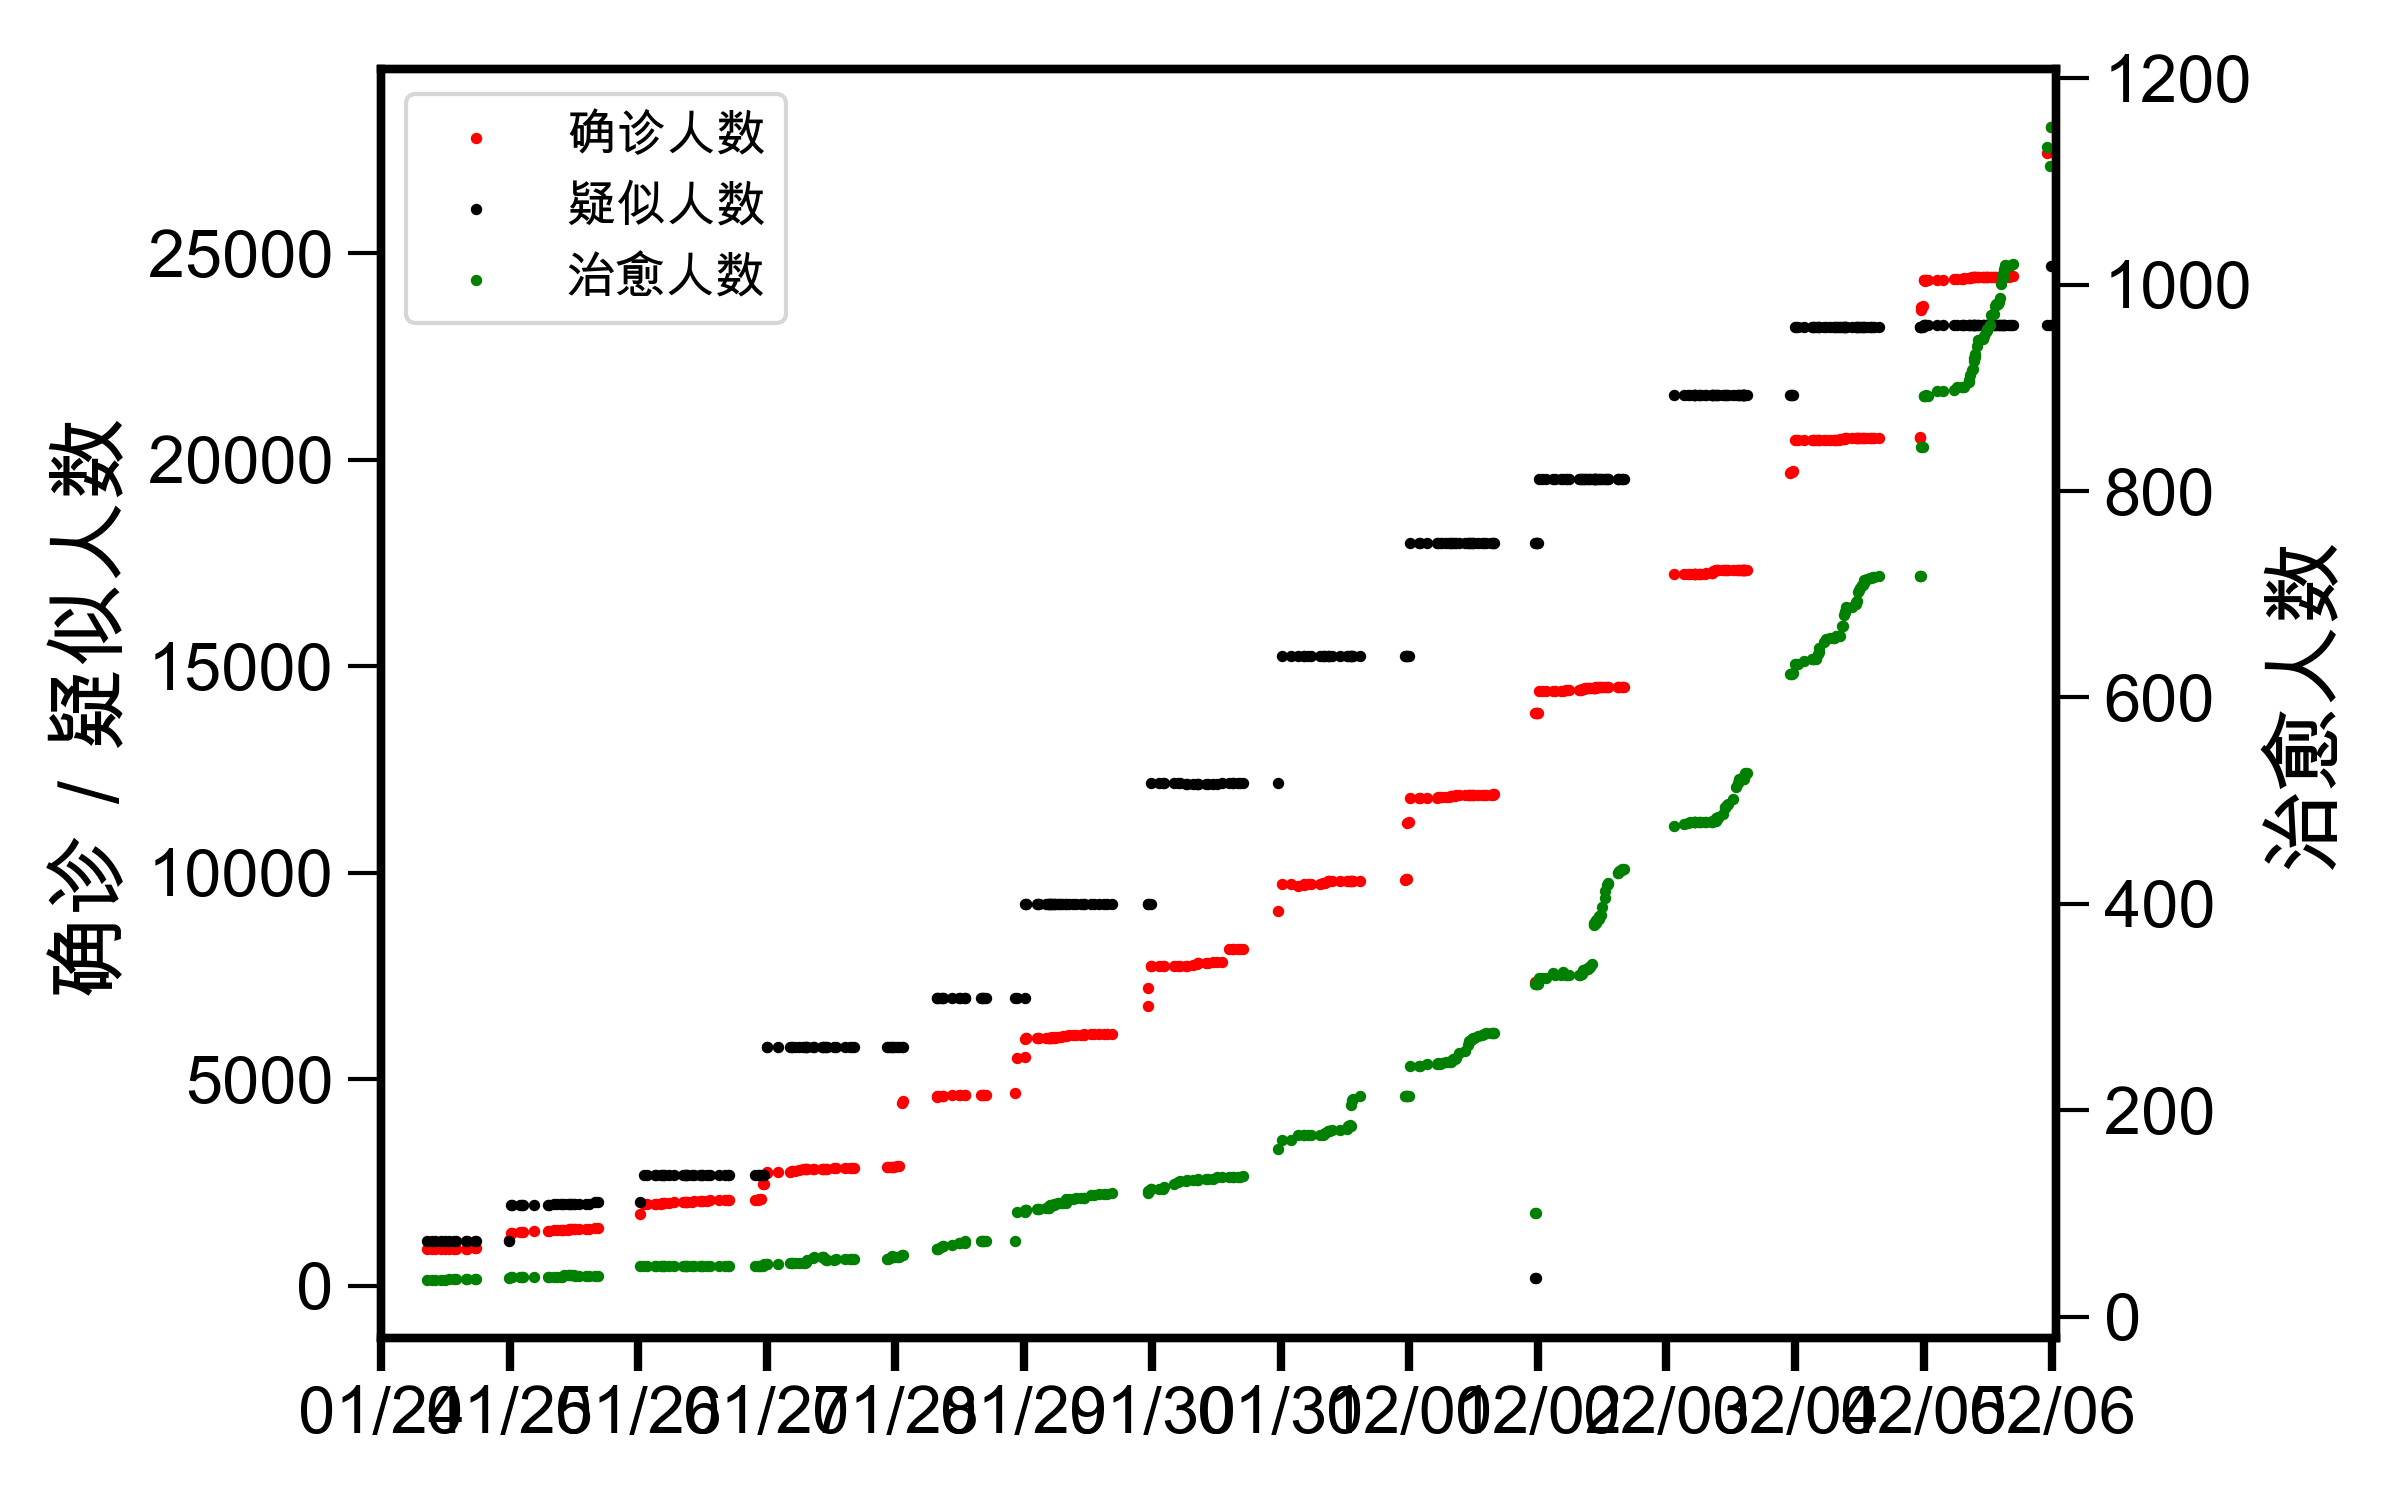
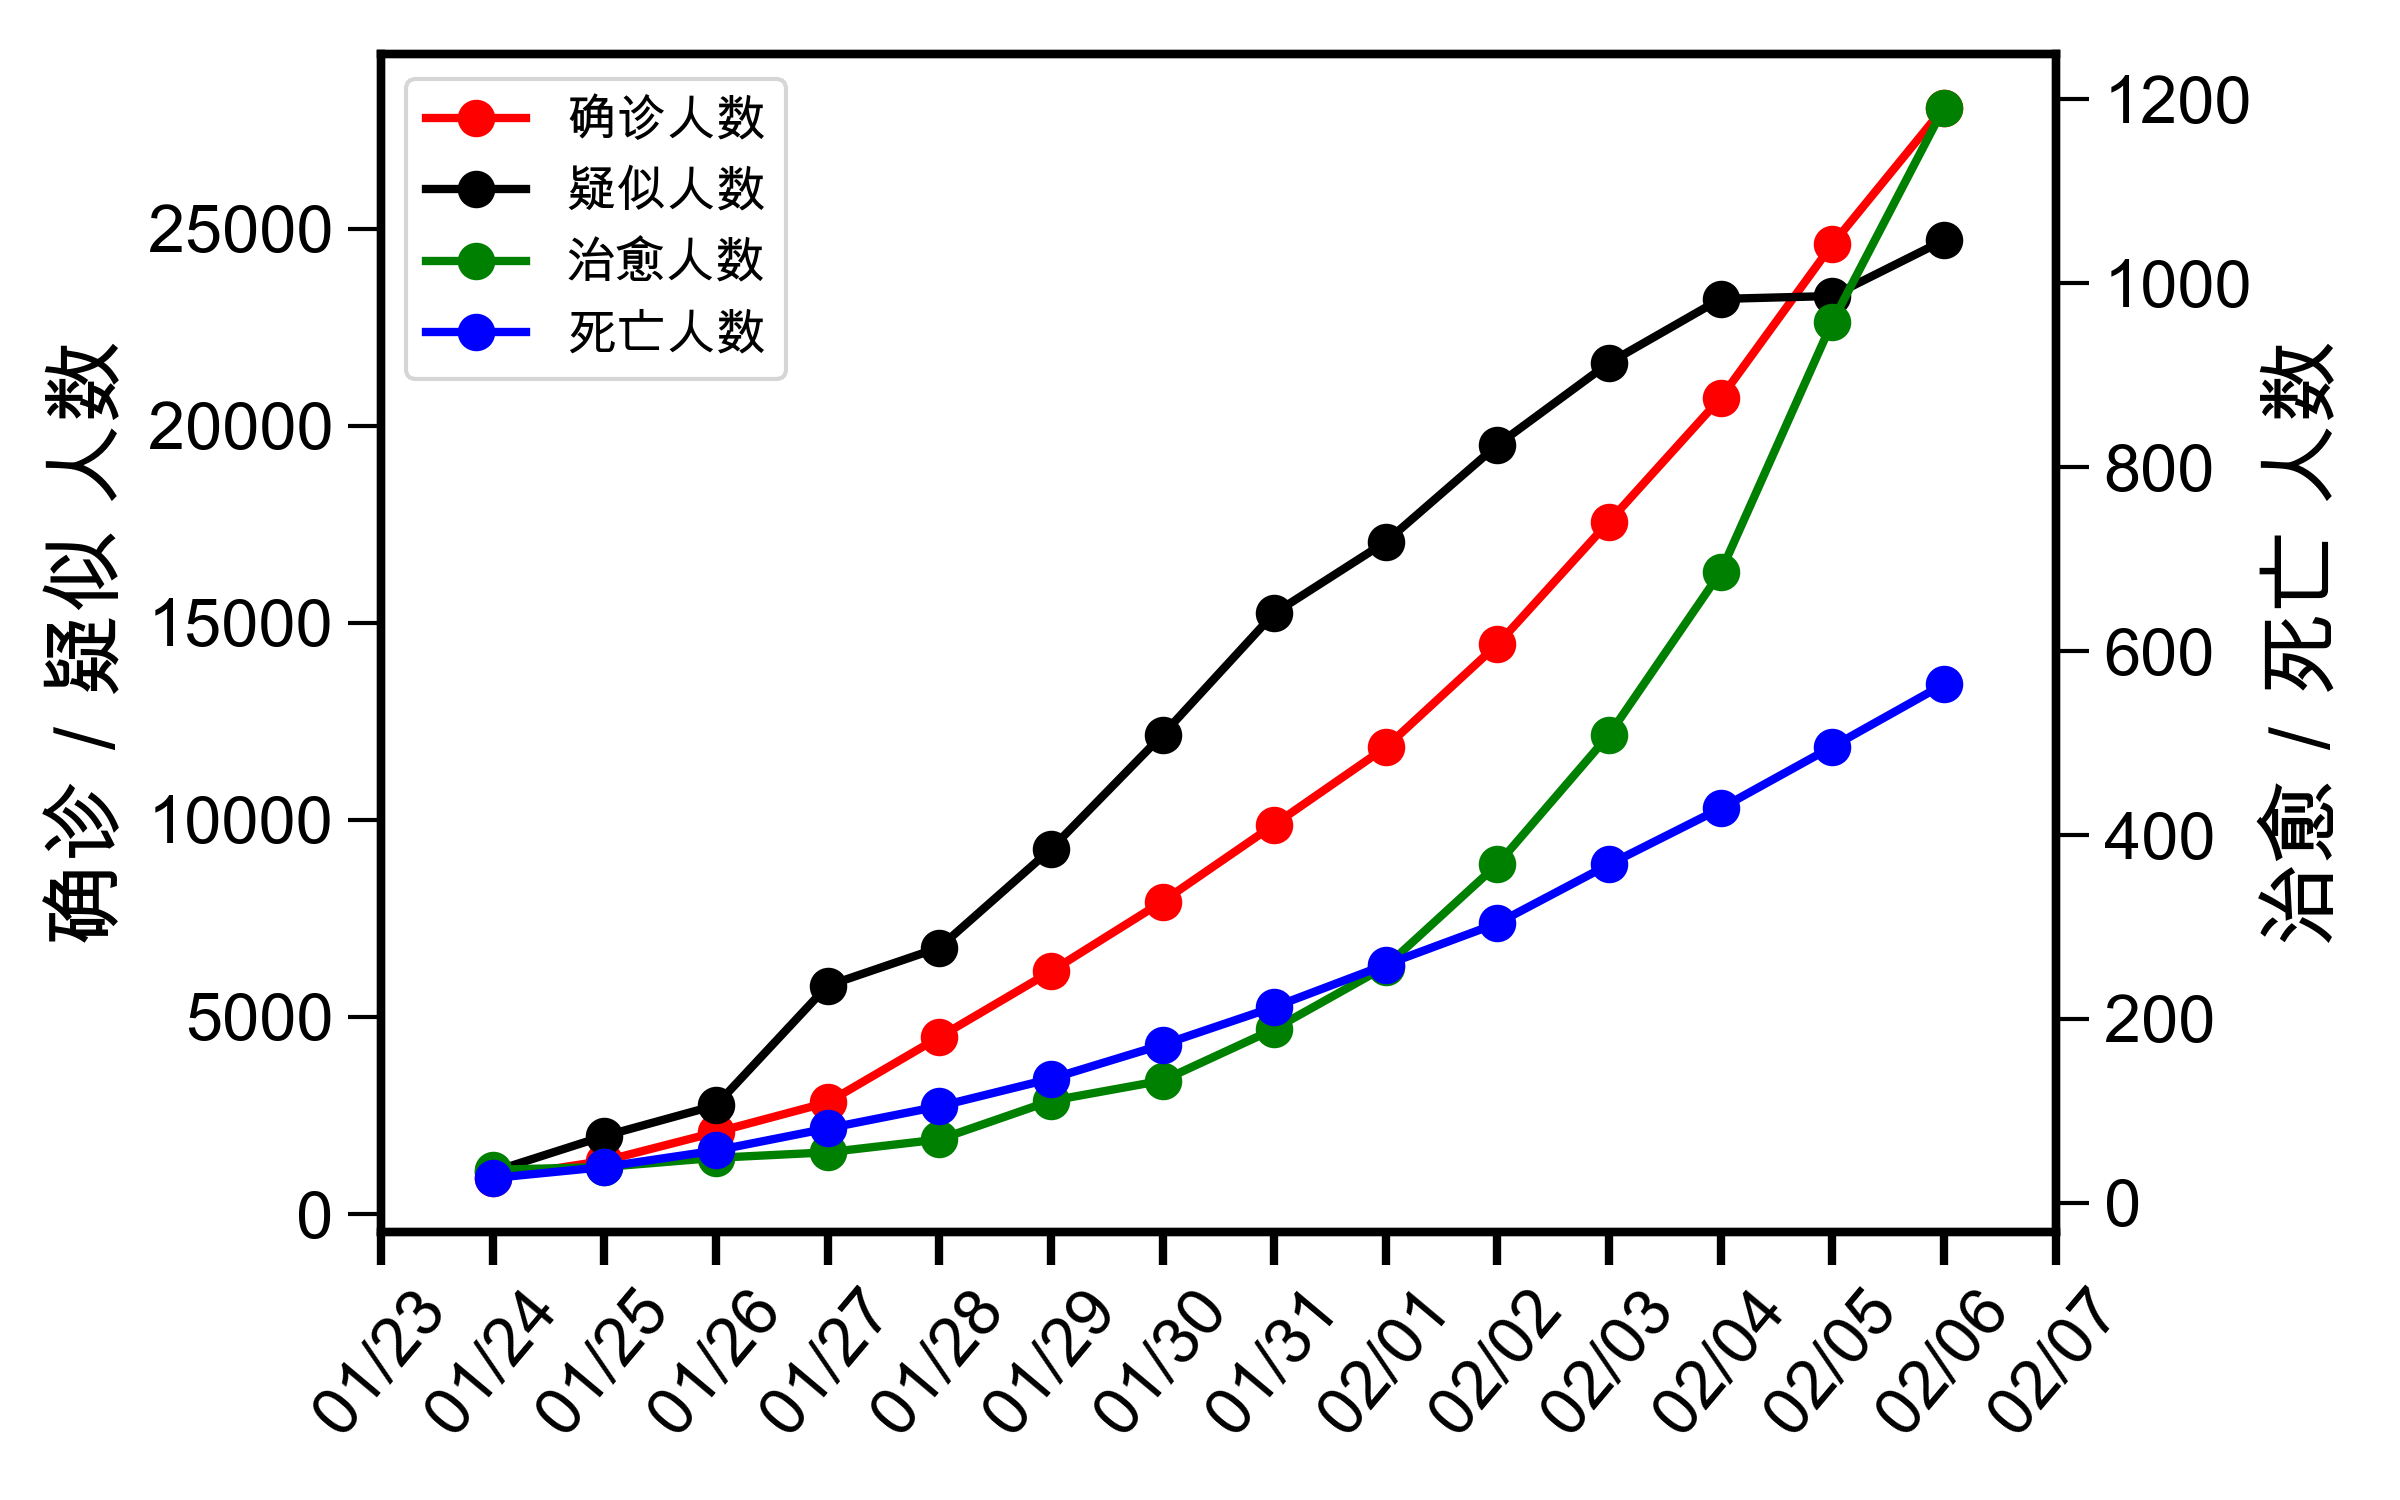
fix line plot

diff --git a/img/hubei_distribution.html b/img/hubei_distribution.html
@@ -8,19 +8,11 @@
 
 </head>
 <body>
-<<<<<<< HEAD
-    <div id="1f6f65196cb345bbb8666adfa7acaaaa" class="chart-container" style="width:900px; height:500px;"></div>
+    <div id="ac4e8697628c496b80ed5f315f12d858" class="chart-container" style="width:900px; height:500px;"></div>
     <script>
-        var chart_1f6f65196cb345bbb8666adfa7acaaaa = echarts.init(
-            document.getElementById('1f6f65196cb345bbb8666adfa7acaaaa'), 'white', {renderer: 'canvas'});
-        var option_1f6f65196cb345bbb8666adfa7acaaaa = {
-=======
-    <div id="2dd80dbba70c45dd976e1f0ba89ea454" class="chart-container" style="width:900px; height:500px;"></div>
-    <script>
-        var chart_2dd80dbba70c45dd976e1f0ba89ea454 = echarts.init(
-            document.getElementById('2dd80dbba70c45dd976e1f0ba89ea454'), 'white', {renderer: 'canvas'});
-        var option_2dd80dbba70c45dd976e1f0ba89ea454 = {
->>>>>>> 56dcb314917096fe944f537e1fcd8a9d472c6393
+        var chart_ac4e8697628c496b80ed5f315f12d858 = echarts.init(
+            document.getElementById('ac4e8697628c496b80ed5f315f12d858'), 'white', {renderer: 'canvas'});
+        var option_ac4e8697628c496b80ed5f315f12d858 = {
     "animation": true,
     "animationThreshold": 2000,
     "animationDuration": 1000,
@@ -200,11 +192,7 @@
         "borderWidth": 0
     }
 };
-<<<<<<< HEAD
-        chart_1f6f65196cb345bbb8666adfa7acaaaa.setOption(option_1f6f65196cb345bbb8666adfa7acaaaa);
-=======
-        chart_2dd80dbba70c45dd976e1f0ba89ea454.setOption(option_2dd80dbba70c45dd976e1f0ba89ea454);
->>>>>>> 56dcb314917096fe944f537e1fcd8a9d472c6393
+        chart_ac4e8697628c496b80ed5f315f12d858.setOption(option_ac4e8697628c496b80ed5f315f12d858);
     </script>
 </body>
 </html>

diff --git a/img/overall_distribution.html b/img/overall_distribution.html
@@ -8,19 +8,11 @@
 
 </head>
 <body>
-<<<<<<< HEAD
-    <div id="88a12136cb7840e4994e3bb982ef373b" class="chart-container" style="width:900px; height:500px;"></div>
+    <div id="8f78dd71d82e4fc98176a3ab2e1f2952" class="chart-container" style="width:900px; height:500px;"></div>
     <script>
-        var chart_88a12136cb7840e4994e3bb982ef373b = echarts.init(
-            document.getElementById('88a12136cb7840e4994e3bb982ef373b'), 'white', {renderer: 'canvas'});
-        var option_88a12136cb7840e4994e3bb982ef373b = {
-=======
-    <div id="12cf2511b0c54a61b9e1dabf9177b1ae" class="chart-container" style="width:900px; height:500px;"></div>
-    <script>
-        var chart_12cf2511b0c54a61b9e1dabf9177b1ae = echarts.init(
-            document.getElementById('12cf2511b0c54a61b9e1dabf9177b1ae'), 'white', {renderer: 'canvas'});
-        var option_12cf2511b0c54a61b9e1dabf9177b1ae = {
->>>>>>> 56dcb314917096fe944f537e1fcd8a9d472c6393
+        var chart_8f78dd71d82e4fc98176a3ab2e1f2952 = echarts.init(
+            document.getElementById('8f78dd71d82e4fc98176a3ab2e1f2952'), 'white', {renderer: 'canvas'});
+        var option_8f78dd71d82e4fc98176a3ab2e1f2952 = {
     "animation": true,
     "animationThreshold": 2000,
     "animationDuration": 1000,
@@ -269,11 +261,7 @@
         "borderWidth": 0
     }
 };
-<<<<<<< HEAD
-        chart_88a12136cb7840e4994e3bb982ef373b.setOption(option_88a12136cb7840e4994e3bb982ef373b);
-=======
-        chart_12cf2511b0c54a61b9e1dabf9177b1ae.setOption(option_12cf2511b0c54a61b9e1dabf9177b1ae);
->>>>>>> 56dcb314917096fe944f537e1fcd8a9d472c6393
+        chart_8f78dd71d82e4fc98176a3ab2e1f2952.setOption(option_8f78dd71d82e4fc98176a3ab2e1f2952);
     </script>
 </body>
 </html>

diff --git a/src/data_visualizer.py b/src/data_visualizer.py
@@ -7,6 +7,7 @@ from pyecharts import options as opts
 import matplotlib.pyplot as plt
 import matplotlib.dates as mdates
 from matplotlib import font_manager
+import pandas as pd
 import datetime as dt
 
 import sqlite3 as db
@@ -77,36 +78,46 @@ def searchCityLongName(cityName):
 def display_recent_overall(pic_file):
 
     conn = db.connect(dbFile)
-    cu = conn.cursor()
 
-    cu.execute("""SELECT * FROM Overall;""")
-    overallData = cu.fetchall()
-    overallConfirmedCounts = []
-    overallSuspectedCounts = []
-    overallCuredCounts = []
-    overallTime = []
-    for record in overallData:
-        overallTime.append(dt.datetime.utcfromtimestamp(record[1] / 1000))
-        overallConfirmedCounts.append(record[2])
-        overallSuspectedCounts.append(record[3])
-        overallCuredCounts.append(record[4])
+    overallData = pd.read_sql_query("""SELECT * FROM Overall;""", conn)
+    overallData['date'] = pd.to_datetime(
+        overallData['time'] / 1000, unit='s')
+    overallData = overallData.set_index('date')
+    dailyMeanOverall = overallData.resample('D').mean().round()
 
     plt.rcParams['font.family'] = ['Arial Unicode MS']
     plt.rcParams['axes.unicode_minus'] = False
 
     fig, ax1 = plt.subplots(figsize=(8, 5))
 
-    s1 = ax1.scatter(overallTime, overallConfirmedCounts, 3, color='r')
-    s2 = ax1.scatter(overallTime, overallSuspectedCounts, 3, color='k')
-    ax1.set_ylabel(u'确诊／疑似人数')
+    s1, = ax1.plot(
+        dailyMeanOverall.index,
+        dailyMeanOverall['confirmedCount'],
+        color='r', marker='o')
+    s2, = ax1.plot(
+        dailyMeanOverall.index,
+        dailyMeanOverall['suspectedCount'],
+        color='k', marker='o')
+    ax1.set_ylabel(u'确诊／疑似 人数')
     ax2 = ax1.twinx()
-    s3 = ax2.scatter(overallTime, overallCuredCounts, 3, color='g')
-    ax2.set_ylabel(u'治愈人数')
+    s3, = ax2.plot(
+        dailyMeanOverall.index,
+        dailyMeanOverall['curedCount'],
+        color='g', marker='o')
+    s4, = ax2.plot(
+        dailyMeanOverall.index,
+        dailyMeanOverall['deadCount'],
+        color='b', marker='o')
+    ax2.set_ylabel(u'治愈／死亡 人数')
     plt.gca().xaxis.set_major_formatter(mdates.DateFormatter('%m/%d'))
     plt.gca().xaxis.set_major_locator(mdates.DayLocator())
-    plt.xlim([dt.datetime(2020, 1, 24), max(overallTime)])
-    plt.legend((s1, s2, s3), (u'确诊人数', u'疑似人数', u'治愈人数'))
-
+    plt.xlim(
+        [dt.datetime(2020, 1, 23),
+         max(dailyMeanOverall.index) + dt.timedelta(days=1)])
+    plt.setp(ax1.xaxis.get_majorticklabels(), rotation=50)
+    plt.legend(
+        (s1, s2, s3, s4),
+        (u'确诊人数', u'疑似人数', u'治愈人数', u'死亡人数'))
     plt.savefig(pic_file)
 
 
@@ -236,8 +247,8 @@ def main():
     pic_file_3 = os.path.join(projectDir, 'img', 'hubei_distribution.png')
 
     display_recent_overall(pic_file_1)
-    display_recent_overall_distribution(pic_file_2)
-    display_recent_provincial_distribution(province, pic_file_3)
+    # display_recent_overall_distribution(pic_file_2)
+    # display_recent_provincial_distribution(province, pic_file_3)
 
 
 if __name__ == "__main__":
